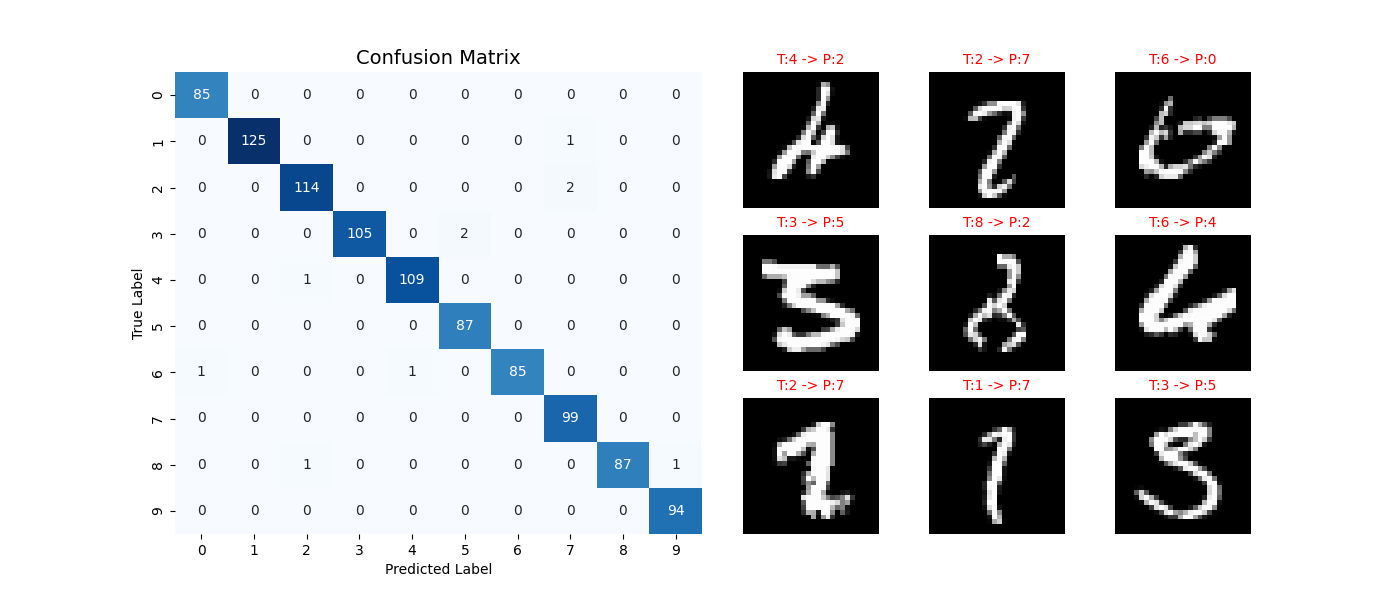
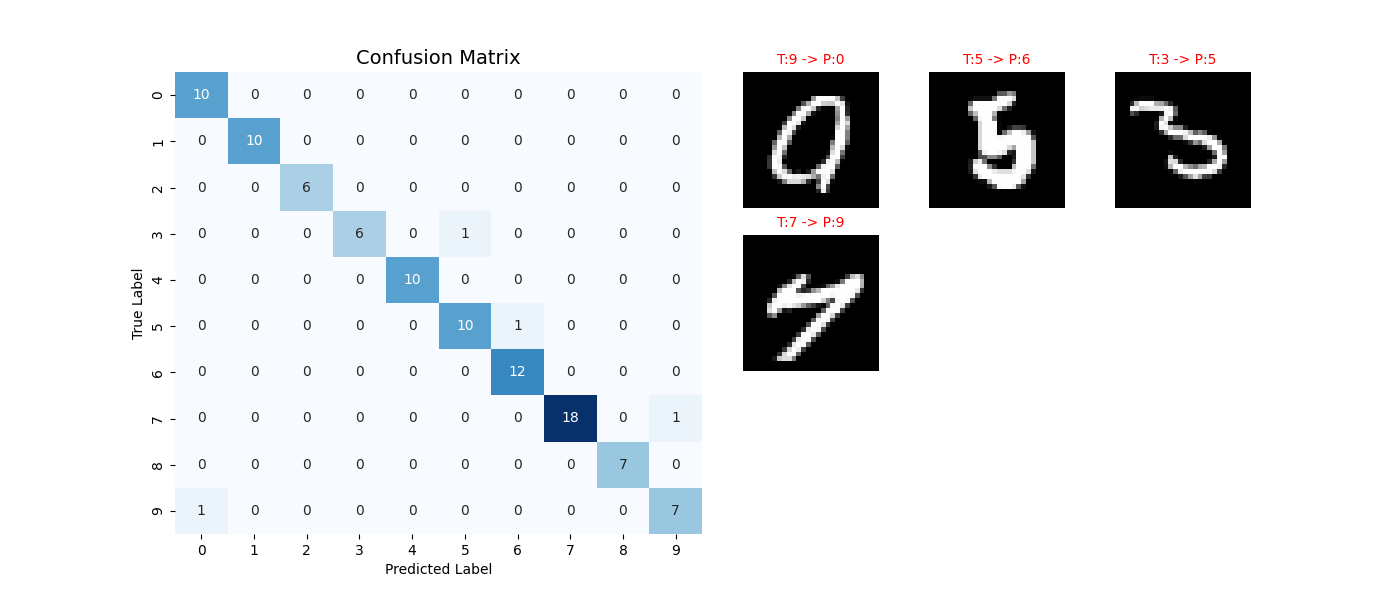
refactor:batch_norm

diff --git a/nn.py b/nn.py
@@ -8,16 +8,21 @@ from collections import OrderedDict
 class NN_Model:
     def __init__(self, input_dim=(1, 28, 28), 
                  layer_config=[['Conv', 30, 5, 2, 1], ['Relu'], ['Pool', 2, 2, 2], ['Affine', 100], ['Relu'], ['Affine', 10]], 
-                 last_layer='Softmax', weight_init_type='he'):
+                 last_layer='Softmax', weight_init_type='he', use_batchnorm=False):
 
         self.params = {}
         self.layers = OrderedDict()
 
         latest_dim = input_dim
         param_count = 0
-        layer_count = {'Conv': 0, 'Pool': 0, 'Affine': 0, 'Relu': 0, 'LeakyRelu': 0}
+        layer_count = {'Conv': 0, 'Pool': 0, 'Affine': 0, 'Relu': 0, 'LeakyRelu': 0, 'Dropout': 0}
+        if use_batchnorm:
+            layer_count['BatchNorm'] = 0
         
-        for i, l in enumerate(layer_config):
+        self.is_training = False
+        self.use_batchnorm = use_batchnorm
+
+        for _, l in enumerate(layer_config):
             match l[0]:
                 case 'Conv':
                     filter_num = l[1]
@@ -44,7 +49,15 @@ class NN_Model:
                     out_h = 1 + int((latest_dim[1] + 2*filter_pad - filter_size) / filter_stride)
                     out_w = 1 + int((latest_dim[2] + 2*filter_pad - filter_size) / filter_stride)
                     latest_dim=(filter_num, out_h, out_w)
+                    
+                    if self.use_batchnorm:
+                        self.params['gamma'+param_ord] = xp.ones(filter_num)
+                        self.params['beta'+param_ord] = xp.zeros(filter_num)
 
+                        layer_count['BatchNorm'] += 1
+                        layer_ord = str(layer_count['BatchNorm'])
+                        self.layers['BatchNorm'+layer_ord] = BatchNormalization(self.params['gamma'+param_ord], self.params['beta'+param_ord])
+                
                 case 'Pool':
                     pool_h = l[1]
                     pool_w = l[2]
@@ -92,6 +105,11 @@ class NN_Model:
                     layer_ord = str(layer_count['LeakyRelu'])
                     self.layers['LeakyRelu'+layer_ord] = LeakyRelu()
 
+                case 'Dropout':
+                    layer_count['Dropout'] += 1
+                    layer_ord = str(layer_count['Dropout'])
+                    self.layers['Dropout'+layer_ord] = Dropout(0.5)
+
         match last_layer:
             case 'Softmax':
                 self.last_layer = SoftmaxWithLoss()
@@ -109,6 +127,14 @@ class NN_Model:
         except (ValueError, TypeError):
             return 0.01
 
+    def _forward(self, x):
+        for layer in self.layers.values():
+            if isinstance(layer, (BatchNormalization, Dropout)):
+                x = layer.forward(x, self.is_training)
+            else:
+                x = layer.forward(x)
+        return x
+
     def predict(self, x, batch_size=None):
         """順伝播による予測
         x: 入力データ
@@ -122,9 +148,7 @@ class NN_Model:
             for i in range(int(xp.ceil(x.shape[0] / batch_size))):
                 tx = x[i*batch_size:(i+1)*batch_size]
                 # 各バッチに対して順伝播
-                out = tx
-                for layer in self.layers.values():
-                    out = layer.forward(out)
+                out = self._forward(tx)
                 
                 if result is None:
                     # 出力形状の動的取得と初期化
@@ -132,9 +156,7 @@ class NN_Model:
                 result[i*batch_size:(i+1)*batch_size] = out
             return result
         else:
-            for layer in self.layers.values():
-                x = layer.forward(x)
-            return x
+            return self._forward(x)
 
     def loss(self, x, t):
         """損失関数を求める
@@ -142,6 +164,7 @@ class NN_Model:
         t: 正解ラベル
         """
         # 勾配計算に必要な中間状態を保存するため、バッチ分割せずに順伝播を行う
+        self.is_training = True
         y = self.predict(x, batch_size=None)
         return self.last_layer.forward(y, t)
 
@@ -151,6 +174,7 @@ class NN_Model:
         t: 正解ラベル
         batch_size: 正解率計算のバッチサイズ
         """
+        self.is_training = False
         if t.ndim != 1:
             t = xp.argmax(t, axis=1)
 
@@ -166,7 +190,7 @@ class NN_Model:
         t : 教師ラベル
         """
         # forward
-        self.loss(x, t)
+        self.last_loss = self.loss(x, t)
 
         # backward
         dout = 1
@@ -177,13 +201,31 @@ class NN_Model:
         for layer in layers:
             dout = layer.backward(dout)
 
-        # 設定
+        # 勾配の設定
         grads = {}
-        param_count = 1
-        for layer in self.layers.values():
-            if hasattr(layer, 'dW'):
-                grads['W' + str(param_count)] = layer.dW
-                grads['b' + str(param_count)] = layer.db
-                param_count += 1
+        conv_param_count = 1
+        bn_param_count = 1
+        
+        for layer_name, layer in self.layers.items():
+            # Convolution層の勾配
+            if layer_name.startswith('Conv') and hasattr(layer, 'dW'):
+                grads['W' + str(conv_param_count)] = layer.dW
+                grads['b' + str(conv_param_count)] = layer.db
+                conv_param_count += 1
+            
+            # BatchNormalization層の勾配
+            elif layer_name.startswith('BatchNorm') and hasattr(layer, 'dgamma'):
+                grads['gamma' + str(bn_param_count)] = layer.dgamma
+                grads['beta' + str(bn_param_count)] = layer.dbeta
+                bn_param_count += 1
+            
+            # Affine層の勾配
+            elif layer_name.startswith('Affine') and hasattr(layer, 'dW'):
+                affine_param_count = int(layer_name.replace('Affine', ''))
+                # Affineパラメータのカウント調整
+                total_conv = len([l for l in self.layers.keys() if l.startswith('Conv')])
+                param_index = total_conv + affine_param_count
+                grads['W' + str(param_index)] = layer.dW
+                grads['b' + str(param_index)] = layer.db
 
         return grads

diff --git a/common/layers.py b/common/layers.py
@@ -212,69 +212,98 @@ class Pooling:
         return dx
 
 class BatchNormalization:
-    def __init__(self, gamma, beta, momentum=0.9,
-                 running_mean=None, running_var=None):
+    def __init__(self, gamma, beta, momentum=0.9, eps=1e-7):
         self.gamma = gamma
         self.beta = beta
         self.momentum = momentum
+        self.eps = eps
 
         # テスト時に使用する平均と分散
-        self.running_mean = running_mean
-        self.running_var = running_var
+        self.running_mean = None
+        self.running_var = None
+        
+        # 逆伝播時に使用する中間値
+        self.batch_size = None
+        self.xn = None
+        self.std = None
+        self.dgamma = None
+        self.dbeta = None
 
-    def forward(self, x, isTraining=True):
-        self.input_shape = x.shape
-        if x.ndim != 2:
+    def forward(self, x, is_training=True):
+        # 4次元入力(N,C,H,W)を2次元に変換 
+        if x.ndim == 4:
             N, C, H, W = x.shape
-            x = x.reshape(N, -1)
-        out = self.calc_forward(x,isTraining)
-        return out.reshape(*self.input_shape)
+            x = x.transpose(0, 2, 3, 1) # NHWCに入れ替え
+            x = x.reshape(N*H*W, C)
+            out = self.calc_forward(x, is_training)
+            out = out.reshape(N, H, W, C).transpose(0, 3, 1, 2) # NCHWに戻す
+        elif x.ndim == 2:
+            out = self.calc_forward(x, is_training)
+        else:
+            raise ValueError(f"Unsupported input shape: {x.shape}")
+        
+        return out
     
-    def calc_forward(self, x, isTraining):
+    def calc_forward(self, x, is_training):
+        # 初回のみ running_mean, running_var を初期化
         if self.running_mean is None:
             N, D = x.shape
             self.running_mean = xp.zeros(D)
-            self.running_var = xp.zeros(D)
+            self.running_var = xp.ones(D)
 
-        if isTraining:
+        if is_training:
+            # バッチ統計量の計算
             mu = x.mean(axis=0)
             xc = x - mu
             var = xp.mean(xc**2, axis=0)
-            std = xp.sqrt(var + 10e-7)
+            std = xp.sqrt(var + self.eps)
             xn = xc / std
             
+            # 逆伝播用に保存
             self.batch_size = x.shape[0]
             self.xc = xc
             self.xn = xn
             self.std = std
-            self.running_mean = self.momentum * self.running_mean + (1-self.momentum) * mu
-            self.running_var = self.momentum * self.running_var + (1-self.momentum) * var            
+            
+            # 実行時平均・分散の更新（指数移動平均）
+            self.running_mean = self.momentum * self.running_mean + (1 - self.momentum) * mu
+            self.running_var = self.momentum * self.running_var + (1 - self.momentum) * var            
         else:
+            # テスト時：保存された平均・分散を使用
             xc = x - self.running_mean
-            xn = xc / ((xp.sqrt(self.running_var + 10e-7)))
+            std = xp.sqrt(self.running_var + self.eps)
+            xn = xc / std
             
         out = self.gamma * xn + self.beta 
         return out
 
     def backward(self, dout):
-        if dout.ndim != 2:
+        if dout.ndim == 4:
             N, C, H, W = dout.shape
-            dout = dout.reshape(N, -1)
-        
-        dx = self.calc_backward(dout)
-        return dx.reshape(*self.input_shape)
+            dout = dout.transpose(0, 2, 3, 1)
+            dout = dout.reshape(N*H*W, C)
+            dx = self.calc_backward(dout)
+            dx = dx.reshape(N, H, W, C).transpose(0, 3, 1, 2)
+        elif dout.ndim == 2:
+            dx = self.calc_backward(dout)
+        else:
+            raise ValueError(f"Unsupported dout shape: {dout.shape}")
+        return dx
 
     def calc_backward(self, dout):
-        dbeta = dout.sum(axis=0)
+        # パラメータ勾配の計算
+        dbeta = xp.sum(dout, axis=0)
         dgamma = xp.sum(self.xn * dout, axis=0)
+        
+        # 入力勾配の計算（逆正規化）
         dxn = self.gamma * dout
-        dxc = dxn / self.std
-        dstd = -xp.sum((dxn * self.xc) / (self.std * self.std), axis=0)
-        dvar = 0.5 * dstd / self.std
-        dxc += (2.0 / self.batch_size) * self.xc * dvar
+        dstd = xp.sum(dxn * self.xc, axis=0) * (-1.0) / (self.std**2)
+        dvar = dstd * 0.5 / self.std
+        dxc = dxn / self.std + (2.0 / self.batch_size) * self.xc * dvar
         dmu = xp.sum(dxc, axis=0)
         dx = dxc - dmu / self.batch_size
 
+        # パラメータ勾配を保存
         self.dgamma = dgamma
         self.dbeta = dbeta
 
@@ -288,8 +317,8 @@ class Dropout:
         self.dropout_ratio = dropout_ratio
         self.mask = None
 
-    def forward(self, x, train_flg=True):
-        if train_flg:
+    def forward(self, x, is_training=True):
+        if is_training:
             self.mask = xp.random.rand(*x.shape) > self.dropout_ratio
             return x * self.mask
         else:

diff --git a/main.py b/main.py
@@ -5,12 +5,12 @@ from plotter import Plotter
 
 def main():
     # --- ハイパーパラメータの設定 ---
-    n_samples = 70000
+    n_samples = 2000
     epochs = 10
     mini_batch_size = 128
     optimizer = 'Momentum'
-    optimizer_param = {'lr': 0.01}
-    evaluate_sample_num_per_epoch = 10000
+    optimizer_param = {'lr': 0.1}
+    evaluate_sample_num_per_epoch = 1000
     
     # --- データの準備 ---
     dataset = MnistDataset(n_samples=n_samples)
@@ -25,13 +25,16 @@ def main():
     print("Initializing CNN...")
     model = NN_Model(layer_config=[['Conv', 32, 3, 1, 1], ['LeakyRelu'],
                                    ['Conv', 32, 3, 1, 1], ['LeakyRelu'],
-                                   ['Conv', 32, 3, 1, 1], ['LeakyRelu'], ['Pool', 2, 2, 2],
+                                   ['Conv', 32, 3, 1, 1], ['LeakyRelu'],
+                                   ['Pool', 2, 2, 2],
                                    ['Conv', 64, 3, 1, 1], ['LeakyRelu'],
                                    ['Conv', 64, 3, 1, 1], ['LeakyRelu'],
-                                   ['Conv', 64, 3, 1, 1], ['LeakyRelu'], ['Pool', 2, 2, 2],
-                                   ['Conv', 128, 3, 0, 1], ['LeakyRelu'],
-                                   ['Conv', 128, 3, 0, 1], ['LeakyRelu'],
-                                   ['Affine', 10]])
+                                   ['Conv', 64, 3, 1, 1], ['LeakyRelu'], ['Dropout'],
+                                   ['Pool', 2, 2, 2],
+                                   ['Conv', 64, 3, 0, 1], ['LeakyRelu'],
+                                   ['Conv', 64, 3, 0, 1], ['LeakyRelu'], ['Dropout'],
+                                   ['Affine', 10]],
+                                   use_batchnorm=True)
 
     # --- トレーナーの準備 ---
     trainer = Trainer(

diff --git a/common/trainer.py b/common/trainer.py
@@ -33,6 +33,7 @@ class Trainer:
         self.test_acc_list = []
 
     def train_step(self):
+
         batch_mask = xp.random.choice(self.train_size, self.batch_size)
         x_batch = self.x_train[batch_mask]
         t_batch = self.t_train[batch_mask]
@@ -40,18 +41,26 @@ class Trainer:
         x_batch = xp.asarray(x_batch)
         t_batch = xp.asarray(t_batch)
 
+        # 訓練モード設定
+        if hasattr(self.model, 'is_training'):
+            self.model.is_training = True
+
         grads = self.model.gradient(x_batch, t_batch)
         self.optimizer.update(self.model.params, grads)
         
-        loss = self.model.loss(x_batch, t_batch)
-        if hasattr(loss, 'get'):
-            loss = loss.get()
+        loss = self.model.last_loss
         self.train_loss_list.append(loss)
+
+        # 評価モード設定
+        if hasattr(self.model, 'is_training'):
+            self.model.is_training = False
+
         
         # 判定条件：
         # 1. 最初 (current_iter == 0) -> epoch 0
         # 2. 各エポックの終了時 ((current_iter + 1) % iter_per_epoch == 0) -> epoch 1, 2, ...
         if self.current_iter % self.iter_per_epoch == 0 or (self.current_iter + 1) == self.max_iter:
+
             # 表示用のエポック数
             if self.current_iter == 0:
                 display_epoch = 0

diff --git a/common/optimizer.py b/common/optimizer.py
@@ -8,7 +8,8 @@ class SGD:
         
     def update(self, params, grads):
         for key in params.keys():
-            params[key] -= self.lr * grads[key] 
+            if key in grads:
+                params[key] -= self.lr * grads[key]
 
 
 class Momentum:
@@ -24,5 +25,6 @@ class Momentum:
                 self.v[key] = xp.zeros_like(val)
                 
         for key in params.keys():
-            self.v[key] = self.momentum * self.v[key] - self.lr * grads[key]
-            params[key] += self.v[key]
+            if key in grads:
+                self.v[key] = self.momentum * self.v[key] - self.lr * grads[key]
+                params[key] += self.v[key]
